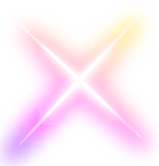
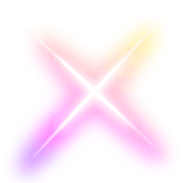
礼物

diff --git a/gift/diamond/index.html b/gift/diamond/index.html
@@ -108,17 +108,17 @@
 <script>
 
     (function () {
-        // 283*309
+        // 298*309
         var border = document.querySelector(".border");
         var wrapper = document.createElement("div");
-        var rotia = 1;
+        var rotia = 0.5;
         border.appendChild(wrapper);
         css(wrapper, {
             position: "absolute",
             top: "50%",
             left: "50%",
             transform: "translate3d(-50%,-50%,0)",
-            width: 283 * rotia + "px",
+            width: 298 * rotia + "px",
             height: 309 * rotia + "px"
         });
         var loadTask = [];
@@ -135,15 +135,15 @@
                 y: 0,
                 h: 309
             }, {
-                x: 23,
+                x: 38,
                 y: 0,
                 h: 119
             }, {
                 x: 0,
-                y: 119,
-                h: 166
+                y: 98,
+                h: 183
             }, {
-                x: 28,
+                x: 43,
                 y: 137,
                 h: 105
             }
@@ -159,7 +159,15 @@
 
 
         concurrentTask(loadTask, function () {
-
+            loopArray(images, function (img, i) {
+                wrapper.appendChild(img);
+                css(img, {
+                    position: "absolute",
+                    top: infos[i].y / 309 * 100 + "%",
+                    left: infos[i].x / 298 * 100 + "%",
+                    height: infos[i].h / 309 * 100 + "%"
+                })
+            });
             setTimeout(function () {
 
             }, 2000);
